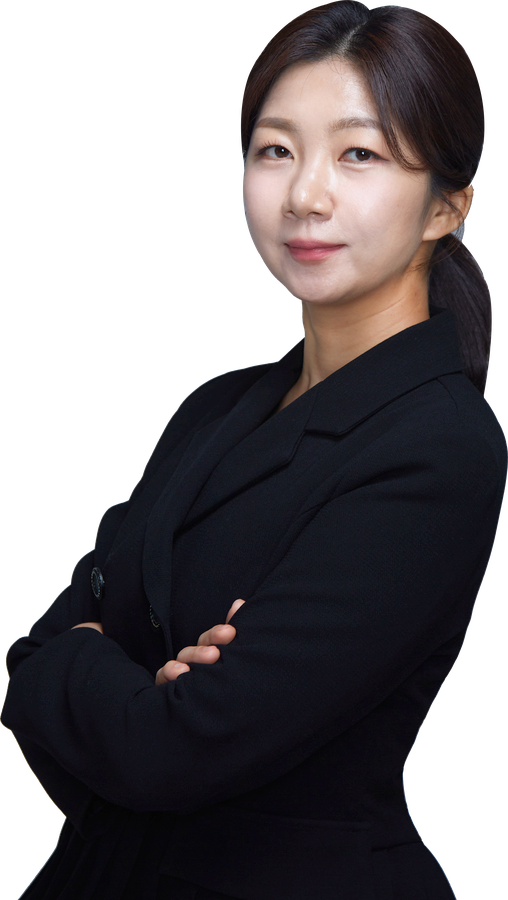
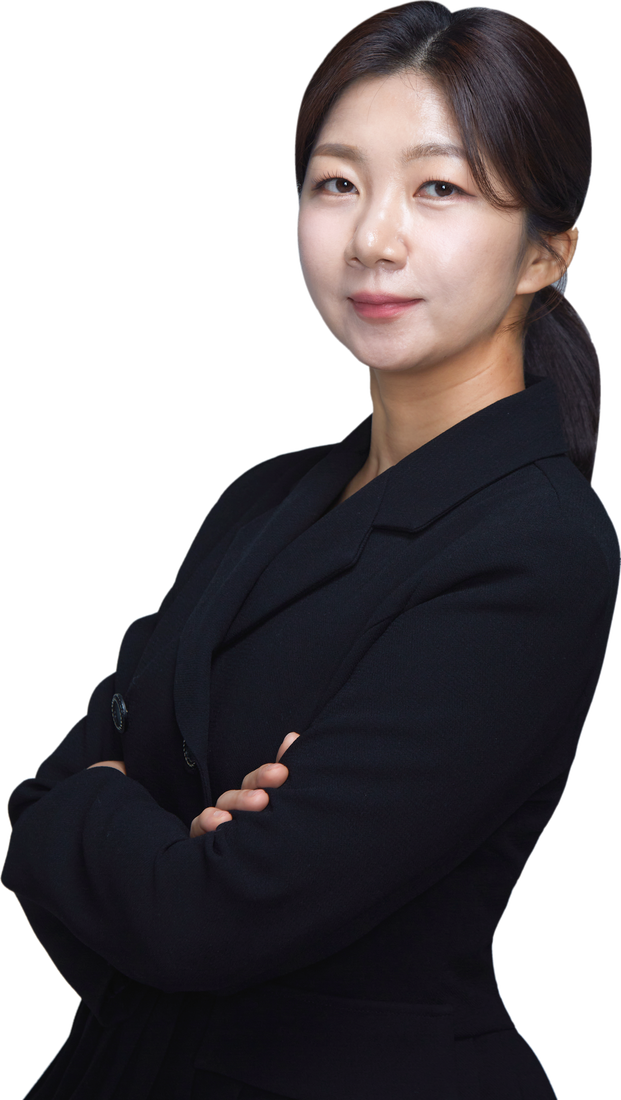
탑시크릿 클래스: 프로필 누끼 정리·확대·글로우

diff --git a/topsecret/index.html b/topsecret/index.html
@@ -53,15 +53,16 @@ h3 .red,h4 .red,.mid .red,.lead .red{font-size:1.12em;font-weight:800}
 
 /* 히어로 (검정 그라데이션, 흰 큰 제목, 오른쪽 사진) */
 .hero{background:linear-gradient(90deg,#0b0b0b 0%,#151515 55%,#2a2a2a 100%);color:#fff;overflow:hidden}
-.hero .wrap{display:grid;grid-template-columns:1.45fr .85fr;align-items:stretch;min-height:280px;padding:0 0 0 24px;gap:6px}
-.hero h2{font-size:34px;font-weight:900;line-height:1.22;margin:0 0 14px;letter-spacing:-.02em}
+.hero .wrap{display:grid;grid-template-columns:1.4fr .9fr;align-items:stretch;min-height:300px;padding:0 0 0 24px;gap:4px}
+.hero h2{font-size:30px;font-weight:900;line-height:1.22;margin:0 0 14px;letter-spacing:-.02em}
 .hero h2 .em{color:var(--coral)}
 .hero>.wrap>div:first-child{padding:38px 0 34px}
 .hero .who{font-size:17px;color:#bbb;margin:0;letter-spacing:.02em}
 .hero .photo{align-self:stretch;position:relative;overflow:hidden;padding-top:26px}
-.hero .photo img{position:absolute;top:26px;right:0;height:calc(100% - 26px + 40px);width:auto;max-width:none;display:block}
+.hero .photo img{position:absolute;top:26px;right:0;height:calc(100% - 26px + 90px);width:auto;max-width:none;display:block;filter:drop-shadow(0 0 28px rgba(255,120,130,.38)) drop-shadow(0 12px 24px rgba(0,0,0,.55))}
+.hero .photo::before{content:"";position:absolute;right:-10%;top:10%;width:110%;height:90%;background:radial-gradient(ellipse at 60% 45%,rgba(255,110,120,.22),rgba(255,110,120,0) 65%);pointer-events:none}
 .hero .photo .ph{width:100%;max-width:250px;height:280px;border:1px dashed #666;border-radius:8px 8px 0 0;display:flex;align-items:center;justify-content:center;color:#888;font-size:12px;text-align:center;padding:12px;line-height:1.5}
-@media(max-width:400px){.hero h2{font-size:29px}}
+@media(max-width:400px){.hero h2{font-size:27px}}
 
 /* 본문(글) */
 .article{padding:40px 0 10px}
@@ -187,10 +188,10 @@ footer p{margin:0}
   .tabs{top:80px;height:52px}
   .tabs ul{height:52px}
   .tabs a{height:52px;font-size:20px;border-bottom-width:3px}
-  .hero .wrap{grid-template-columns:1.3fr .7fr;min-height:420px;padding:0;gap:20px}
+  .hero .wrap{grid-template-columns:1.15fr .85fr;min-height:440px;padding:0;gap:20px}
   .hero>.wrap>div:first-child{padding:60px 0 60px}
   .hero .photo{padding-top:40px}
-  .hero .photo img{top:40px;height:calc(100% - 40px + 90px)}
+  .hero .photo img{top:40px;height:calc(100% - 40px + 190px)}
   .hero h2{font-size:64px;line-height:1.18;padding:0;margin-bottom:22px;letter-spacing:-.02em}
 
   .hero .who{font-size:19px;margin:0}
